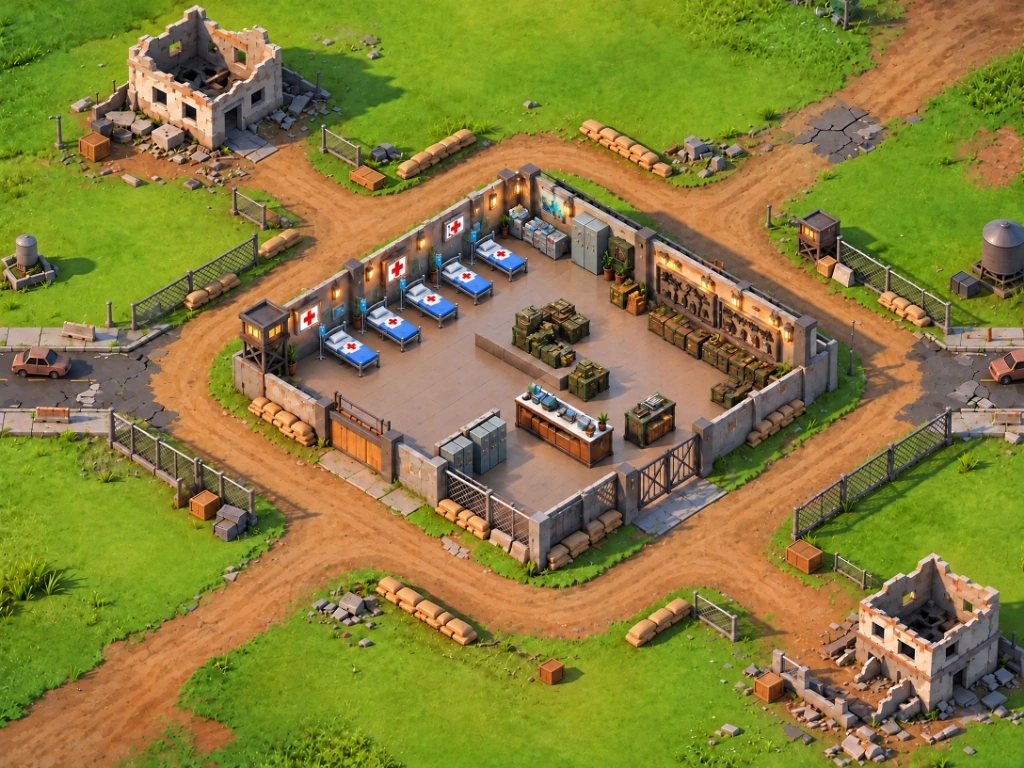
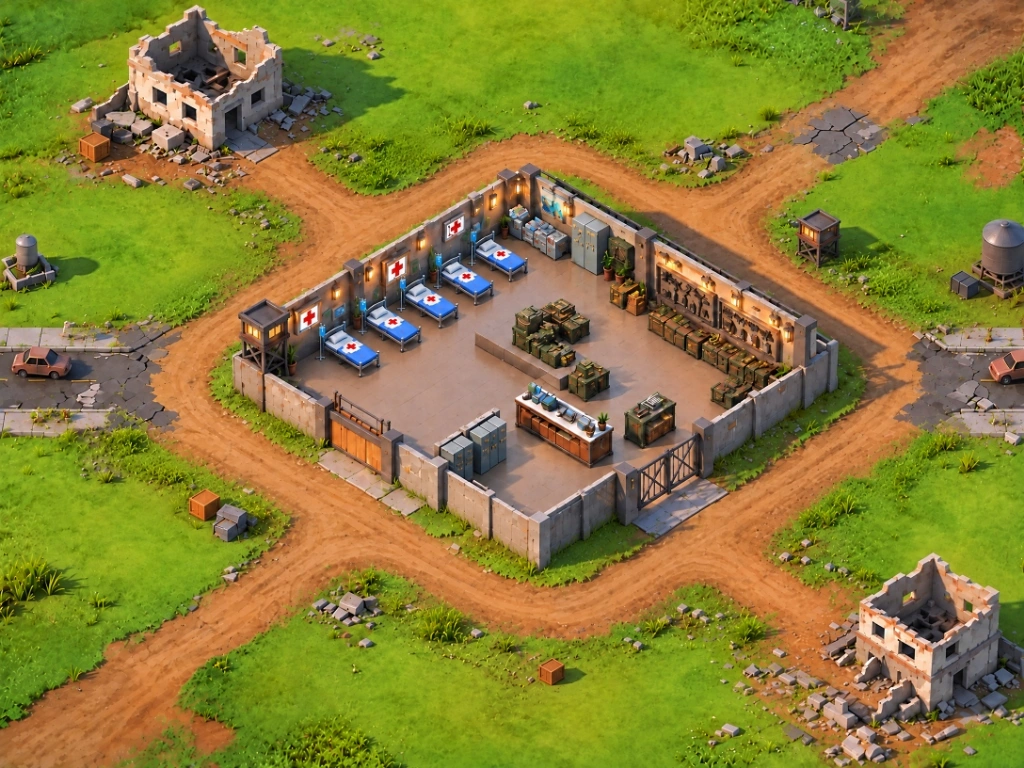
feat: apply new map art without fences and sandbags, keep obstacles only on buildings cars tower and billboard

diff --git a/src/utils/cityMapGeometry.js b/src/utils/cityMapGeometry.js
@@ -52,73 +52,39 @@ export function isCityObstacle(c, r) {
   // Limites exteriores do mapa (fora do grid de combate)
   if (c < 0 || c >= GRID_COLS || r < 0 || r >= GRID_ROWS) return true;
 
-  // 1. RUÍNA NOROESTE (Prédio de concreto destruído no topo esquerdo)
-  // Circulado pelo usuário: prédio principal e escombros adjacentes
+  // REGRA OFICIAL DO USUÁRIO:
+  // "agora sem as cercas e sacos de areia os zumbis e herois podem andar livremente sem ficar travados exeto nas contruçoes carros torre e outdoor"
+
+  // 1. CONSTRUÇÕES - RUÍNA NOROESTE (Prédio de concreto destruído no topo esquerdo)
   if (c >= 2 && c <= 4 && (r === 1 || r === 2)) return true;
-  if (c === 2 && r === 3) return true; // Escombros no gramado sul da ruína
 
   // 2. OUTDOOR / BILLBOARD "CRYPTOZOMBIES" (Norte no gramado)
-  // Circulado pelo usuário: painel e sapatas metálicas de sustentação
   if ((c === 7 || c === 8) && (r === 0 || r === 1)) return true;
 
   // 3. TORRE DE VIGIA NORTE (Madeira no topo direito)
-  // Circulado pelo usuário: torre elevada em (11, 0)
   if (c === 11 && r === 0) return true;
 
-  // 4. BARRICADAS DE SACOS DE AREIA NORTE (Acima da base militar)
-  // Deixa passagem livre nas colunas 6, 7 e 8 para evitar armadilha de 1 bloco sob o outdoor
-  if ((c === 5 || c === 9) && r === 2) return true;
-
-  // 5. VIA OESTE & GRAMADO LIVRE (Conecta o noroeste à avenida principal)
-  // Deixado 100% livre em (1, 4) e (2, 4) para permitir fluxo contínuo de heróis e zumbis
-
-  // 6. CARROS ABANDONADOS NO ASFALTO (Oeste e Leste)
-  // Circulado pelo usuário: veículos parados nas avenidas asfaltadas
+  // 4. CARROS ABANDONADOS NO ASFALTO (Oeste e Leste)
   if (c === 1 && r === 5) return true; // Carro na pista oeste
   if ((c === 13 || c === 14) && r === 5) return true; // Carro na pista leste
 
-  // 7. CERCAS DE ARAME, BARRICADAS E ESCOMBROS OESTE
-  // Circulado pelo usuário: cercas e barricadas que contornam a via oeste
-  if (c === 3 && r === 3) return true; // Cerca e caixotes noroeste
-  if (c === 3 && r === 4) return true; // Barricada e cerca da guarita oeste
-  if (c === 3 && r === 6) return true; // Cerca longa de arame sudoeste (c=2 é via aberta)
-  if (c === 3 && r === 7) return true; // Canto inferior da cerca sudoeste
-
-  // 7.1. TORRE DE SIRENE E ALARME DE VIGIA (Local exato demarcado em vermelho)
-  // Regra Oficial do Usuário: "os zumbies e herois nao podem passar por cima dela"
+  // 5. TORRE DE SIRENE E ALARME DE VIGIA OESTE
   if (c === 2 && r === 3) return true;
 
-  // 8. BASE MILITAR FORTIFICADA & COMPLEXO HOSPITALAR (Santuário Central)
-  // Circulado pelo usuário: todo o complexo murado, pátio, ambulância, hangar e hospital
+  // 6. CONSTRUÇÃO CENTRAL - BASE MILITAR & HOSPITAL DE SOBREVIVÊNCIA
+  // Todo o quadrado fortificado central (muros e interior com leitos e armaria)
   if (isBaseCompound(c, r)) return true;
 
-  // 9. BARRICADAS DE SACOS DE AREIA SUL (Abaixo da base militar)
-  // Circulado pelo usuário: sacos de areia sudoeste e sudeste do portão sul
-  if ((c === 5 || c === 6) && r === 8) return true; // Barricada sul-oeste
-  if ((c === 8 || c === 9) && r === 8) return true; // Barricada sul-leste
+  // 7. CONSTRUÇÕES - RUÍNA SUDESTE (Prédio de concreto destruído no canto inferior direito)
+  if (c >= 11 && c <= 13 && (r === 8 || r === 9)) return true;
 
-  // 10. CAIXOTE DE MADEIRA SUL (Gramado/estrada sul)
-  // Circulado pelo usuário: pequeno caixote em (8, 9)
-  if (c === 8 && r === 9) return true;
-
-  // 11. RUÍNA SUDESTE (Prédio de concreto destruído no canto inferior direito)
-  // Circulado pelo usuário: todo o perímetro da ruína, muros e escombros
-  if (c >= 10 && c <= 13 && (r === 8 || r === 9)) return true;
-  if ((c === 11 || c === 12) && r === 7) return true; // Escombros e cerca norte da ruína
-
-  // 12. CERCAS DE ARAME E BLOQUEIOS DE CONCRETO LESTE
-  // Circulado pelo usuário: cerca e barricada na via leste
-  if ((c === 11 || c === 12) && r === 6) return true; // Cerca leste
-  if (c === 13 && r === 6) return true; // Bloqueio de concreto no asfalto leste
-
-  // 13. SILO / RESERVATÓRIO METÁLICO DE COMBUSTÍVEL LESTE
-  // Circulado pelo usuário: tanque cilíndrico na colina leste
+  // 8. CONSTRUÇÕES - SILO / RESERVATÓRIO METÁLICO DE COMBUSTÍVEL LESTE
   if ((c === 13 || c === 14) && (r === 3 || r === 4)) return true;
 
-  // 14. GUARITA / TORRE DE VIGIA E CERCA LESTE
-  // Circulado pelo usuário: guarita elevada e cercas em (11..12, 3..4)
-  if ((c === 11 || c === 12) && (r === 3 || r === 4)) return true;
+  // 9. CONSTRUÇÕES - GUARITA ELEVADA LESTE
+  if (c === 11 && (r === 3 || r === 4)) return true;
 
+  // Todas as demais estradas, caminhos de terra batida e gramados estão 100% livres
   return false;
 }
 

diff --git a/src/utils/renderGraphics.js b/src/utils/renderGraphics.js
@@ -276,9 +276,9 @@ export function initCityMap(onLoaded) {
   initSirenTower();
 
   const mapSources = {
-    1: `/city_map_lvl1.webp?v=2`,
-    2: `/city_map_lvl2.webp?v=2`,
-    3: `/city_map_lvl3.webp?v=2`
+    1: `/city_map_lvl1.webp?v=3`,
+    2: `/city_map_lvl2.webp?v=3`,
+    3: `/city_map_lvl3.webp?v=3`
   };
 
   [1, 2, 3].forEach((lvl) => {
@@ -302,7 +302,7 @@ export function initCityMap(onLoaded) {
         // Fallback para /city_map.webp
         const fallbackImg = new Image();
         fallbackImg.crossOrigin = 'anonymous';
-        fallbackImg.src = `/city_map.webp?v=2`;
+        fallbackImg.src = `/city_map.webp?v=3`;
         fallbackImg.onload = () => {
           cityMapImages[1] = fallbackImg;
           cityMapsLoaded[1] = true;
